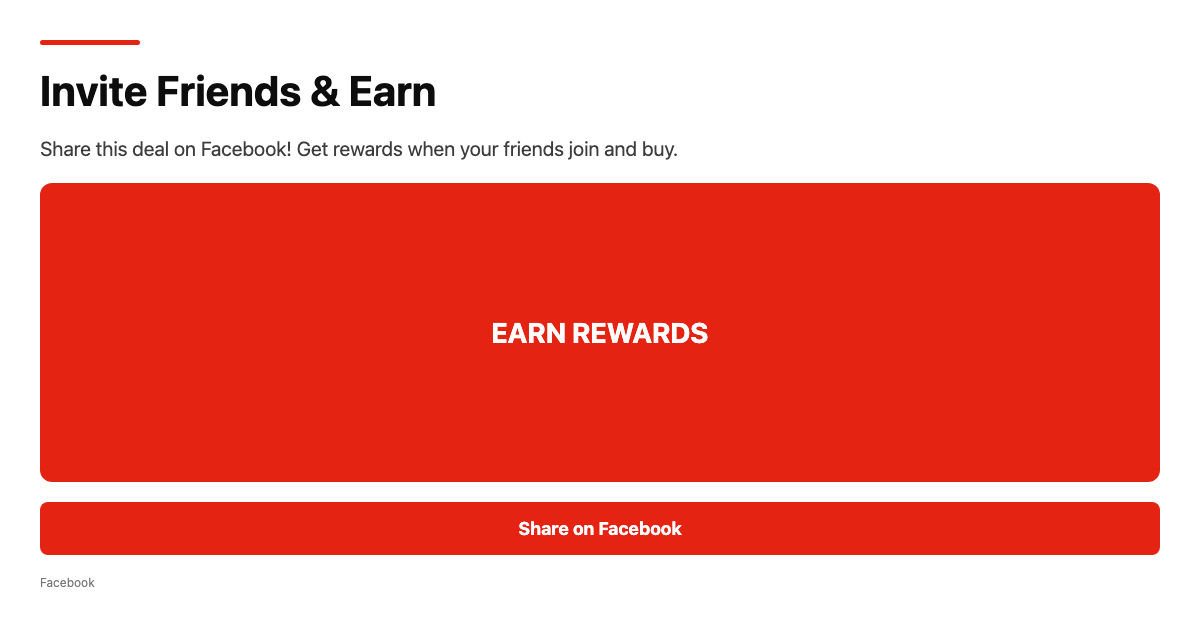
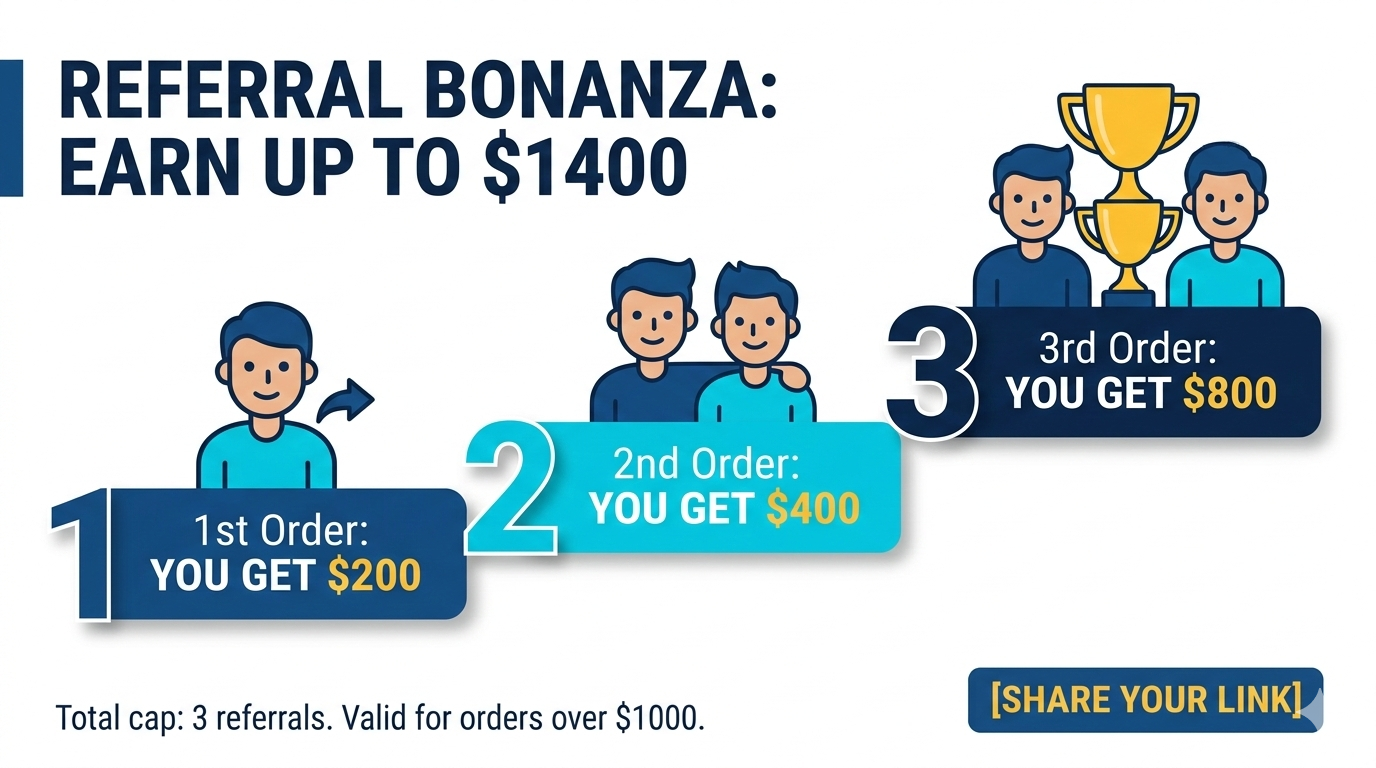
fix: keep referral poster in frame and restore interactions
- constrain social poster height to stay inside referral hero card
- ensure poster image does not intercept pointer events so tabs and cta buttons work
- update three poster image assets for latest design

Made-with: Cursor

diff --git a/apps/web/src/app/referral/components/SocialPosterTabs.tsx b/apps/web/src/app/referral/components/SocialPosterTabs.tsx
@@ -52,7 +52,7 @@ function PosterImage({
       src={src}
       alt={alt}
       fill
-      className="object-contain"
+      className="object-contain pointer-events-none" // [2026-03-02 06:29:45] 防止海报层拦截点击，保证 Tab 可切换
       sizes="(max-width: 640px) 100vw, 400px"
       unoptimized
       onError={onError}
@@ -83,7 +83,8 @@ export function SocialPosterTabs() {
         ))}
       </div>
       <div className="p-6">
-        <div className="aspect-[4/3] bg-[#FAFAFA] flex items-center justify-center text-[#7A7A7A] text-center px-4 mb-4 border border-[#E8E8E8] overflow-hidden relative">
+        {/* [2026-03-02 06:25:30] 限制海报最大高度，避免图片按原始尺寸撑满整个页面 */}
+        <div className="relative mx-auto mb-4 aspect-[4/3] max-h-[420px] w-full bg-[#FAFAFA] flex items-center justify-center text-[#7A7A7A] text-center px-4 border border-[#E8E8E8] overflow-hidden">
           {current.imageUrl ? (
             <PosterImage
               src={current.imageUrl}
